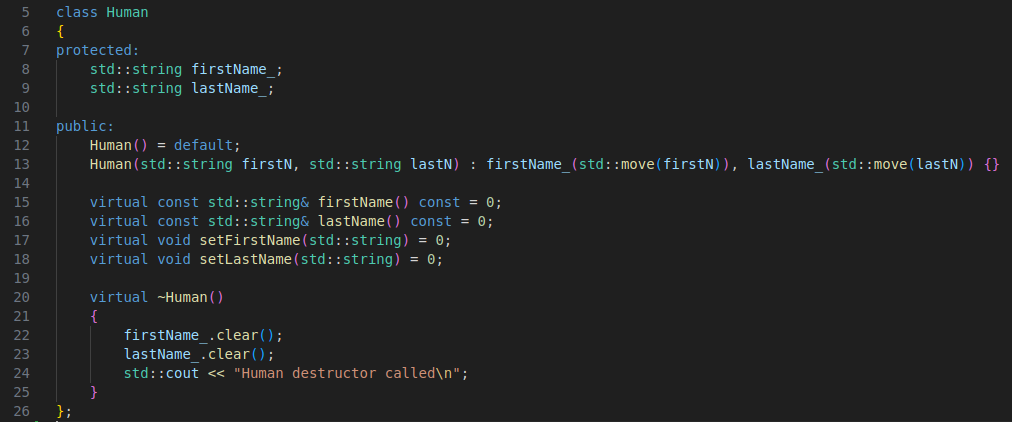
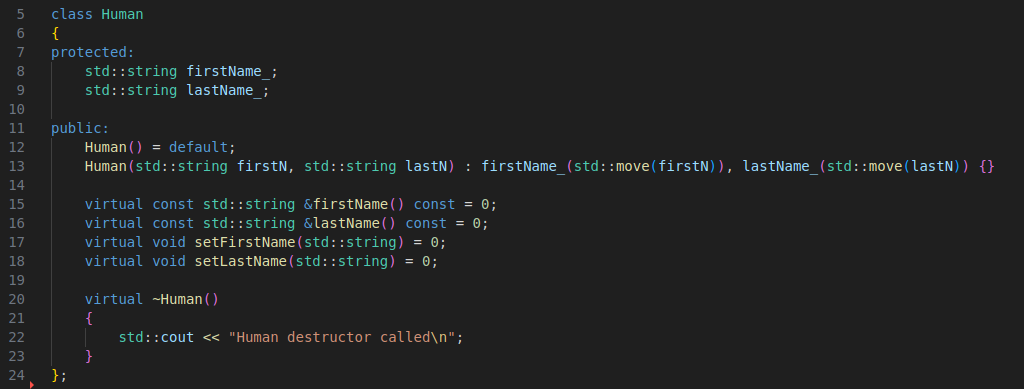
pataisytas readme failas

diff --git a/README.md b/README.md
@@ -1,10 +1,11 @@
 # 2 užduotis
 
 # (v1.5)
+
 Šioje programos versijoje sukurta abstrakti bazinė klasė ir jos išvestinė klasė.  
 
 **Bazinė klasė**: abstrakti klasė `Human`, kurioje aprašytos bendros žmogaus savybės (`firstName`, `lastName`) ir abstraktūs metodai.  
-![alt text](./screenshots/humanClass.png)  
+![Human.h](./screenshots/humanClass.png)
 
 **Išvestinė klasė**: `Student`, kurioje realizuotos virtualios funkcijos, pridedi studentui būdingi laukai (`grades`, `exam`), bei metodai.  
 
